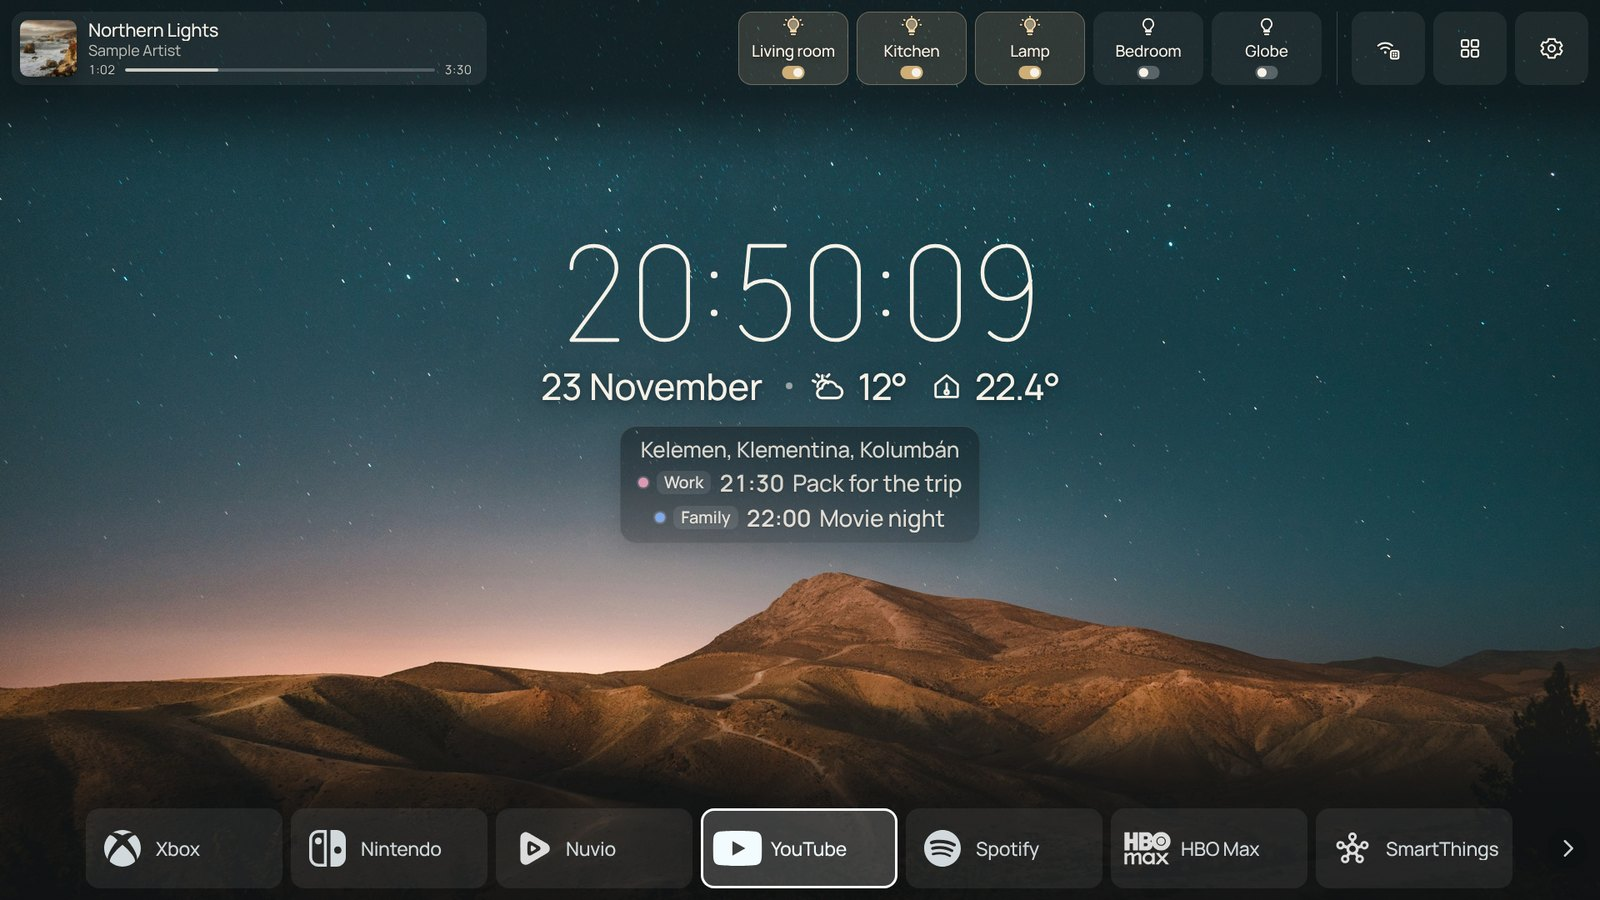
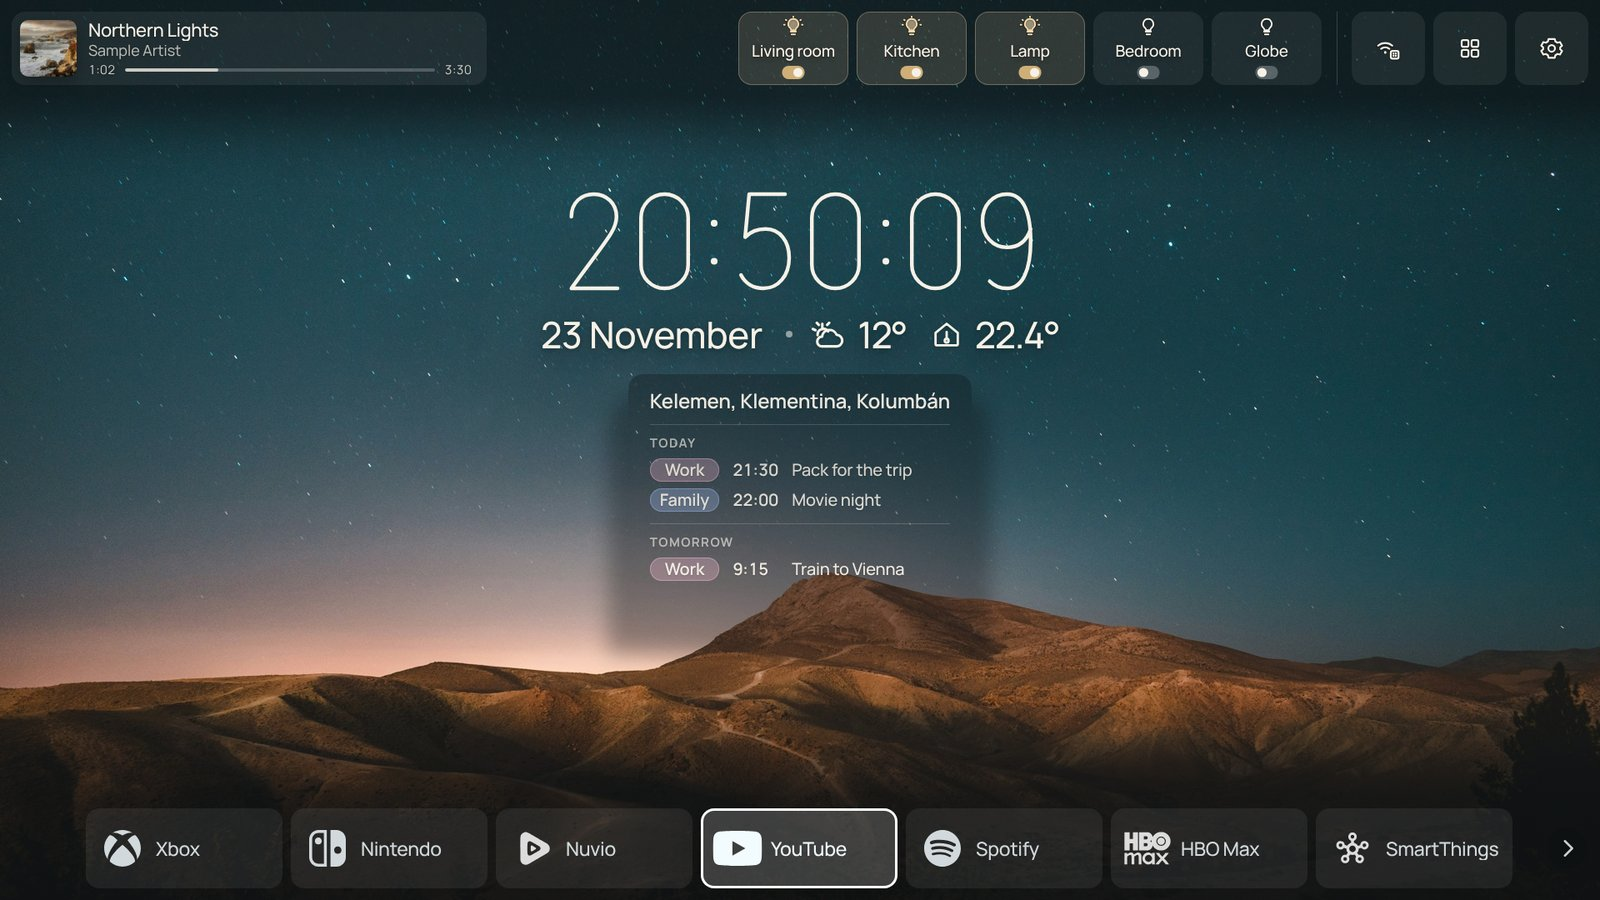
README screenshots: the 0.40 day panel
Home (centred clock, two calendars, today and tomorrow) and Dock (one
calendar) screenshots retaken from the browser preview with sample data.

Claude-Session: https://claude.ai/code/session_01VGKSZqQFEEKRXry9Umxzct

Changed region(s): [[0.3438, 0.2178, 0.6562, 0.7467], [0.4688, 0.1867, 0.5, 0.2178]]

diff --git a/README.md b/README.md
@@ -4,7 +4,7 @@
 
 A quieter home screen for Samsung TVs. Your apps, a photograph, the time and the weather, with an interface made for the TV remote.
 
-![Frame Home: the top Dock bar with the song on the left and five Alexa switches and icon-only controls on the right, a thin centred clock with seconds, the date, weather and indoor temperature, one glass panel with today's name days and events from two named calendars, and the Modern dock at the bottom with icons and names side by side](docs/images/frame-home-home.jpg)
+![Frame Home: the top Dock bar with the song on the left and five Alexa switches and icon-only controls on the right, a thin centred clock with seconds, the date, weather and indoor temperature, one glass panel with today's name days, then today's and tomorrow's events from two calendars, each on a name chip in its calendar's colour, and the Modern dock at the bottom with icons and names side by side](docs/images/frame-home-home.jpg)
 
 *Top Dock bar, thin 24-hour clock with seconds, one panel with name days and events from two calendars (each marked with its name and colour), and the Modern dock with icons and names. Rendered in the browser preview on the Desert stars wallpaper with sample Spotify, Alexa and calendar data.*
 
@@ -14,7 +14,7 @@ This repo uses [Nathan Clark's CleanFrame](https://github.com/nthnclrk/CleanFram
 
 | Settings | Dock layout |
 | --- | --- |
-| ![Settings: three equal columns, Personalization, Home and time, and System, each with three cards](docs/images/frame-home-settings.jpg) | ![Dock layout: one glass shelf with colour icons and names, the corner clock with weather and indoor temperature, the date, a glass panel with name days and a calendar event, and the top-row cards](docs/images/frame-home-dock.jpg) |
+| ![Settings: three equal columns, Personalization, Home and time, and System, each with three cards](docs/images/frame-home-settings.jpg) | ![Dock layout: one glass shelf with colour icons and names, the corner clock with weather and indoor temperature, the date, a glass panel with name days and today's calendar event, and the top-row cards](docs/images/frame-home-dock.jpg) |
 
 ## What it does
 
